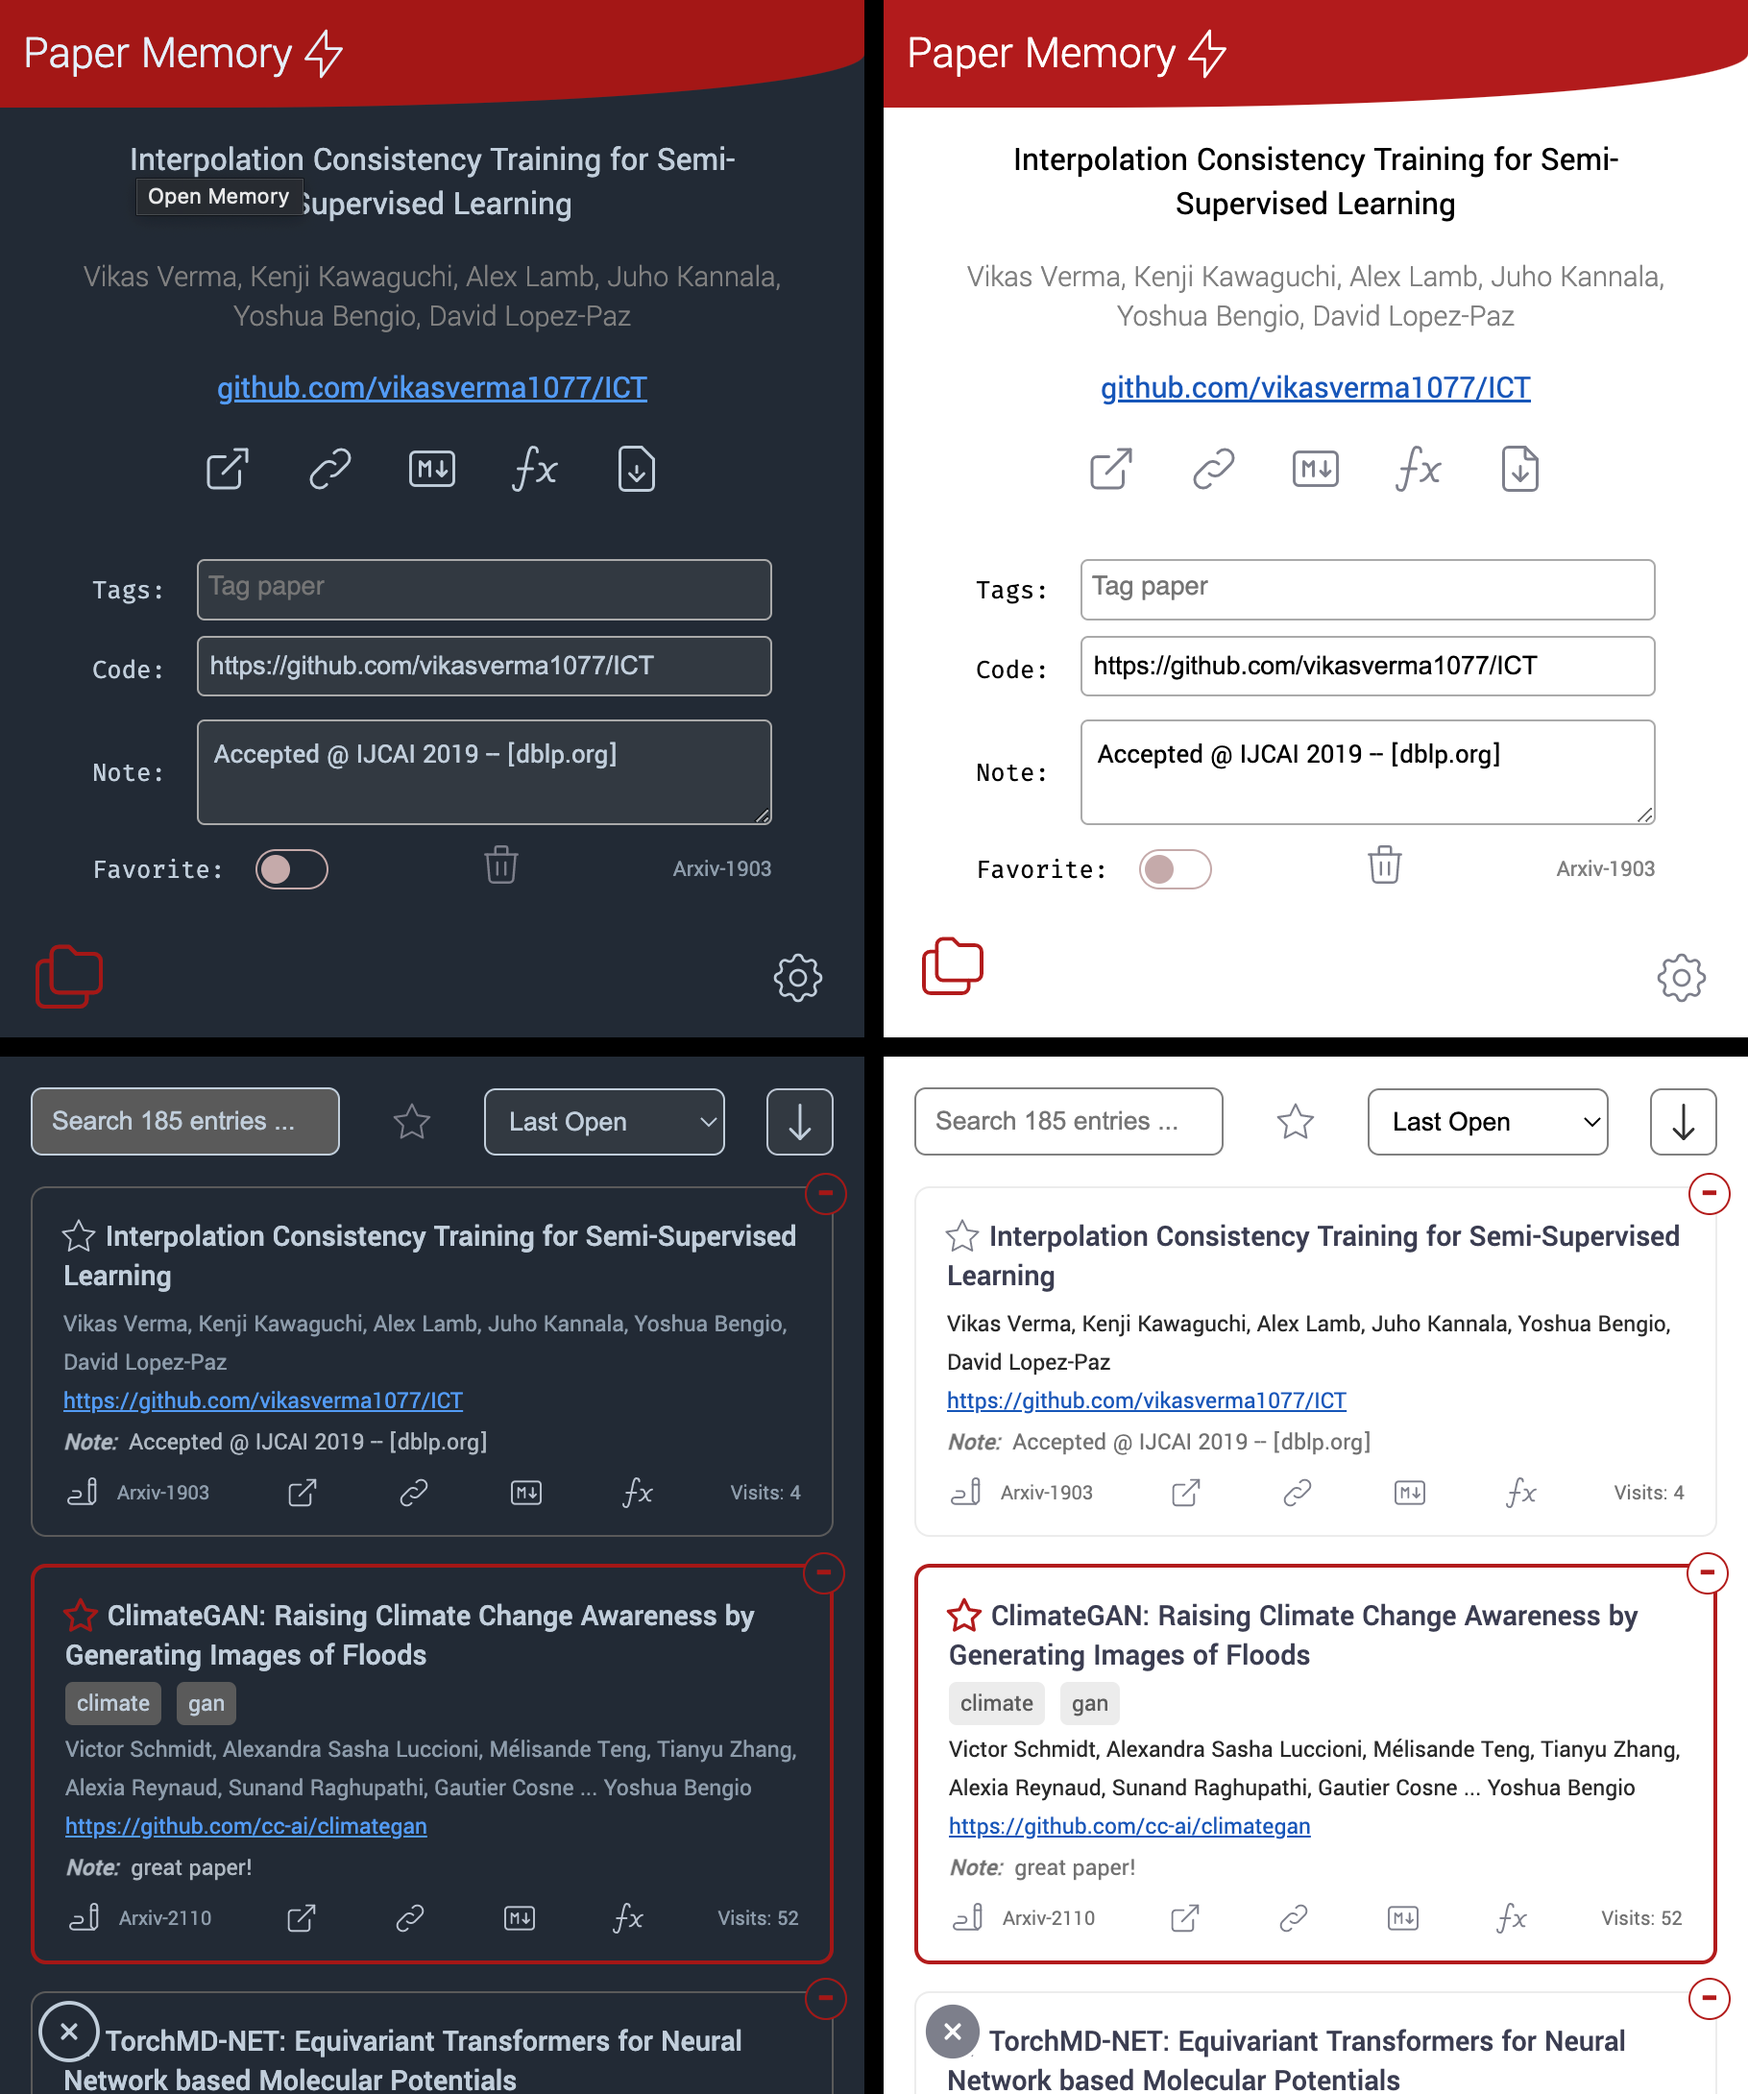
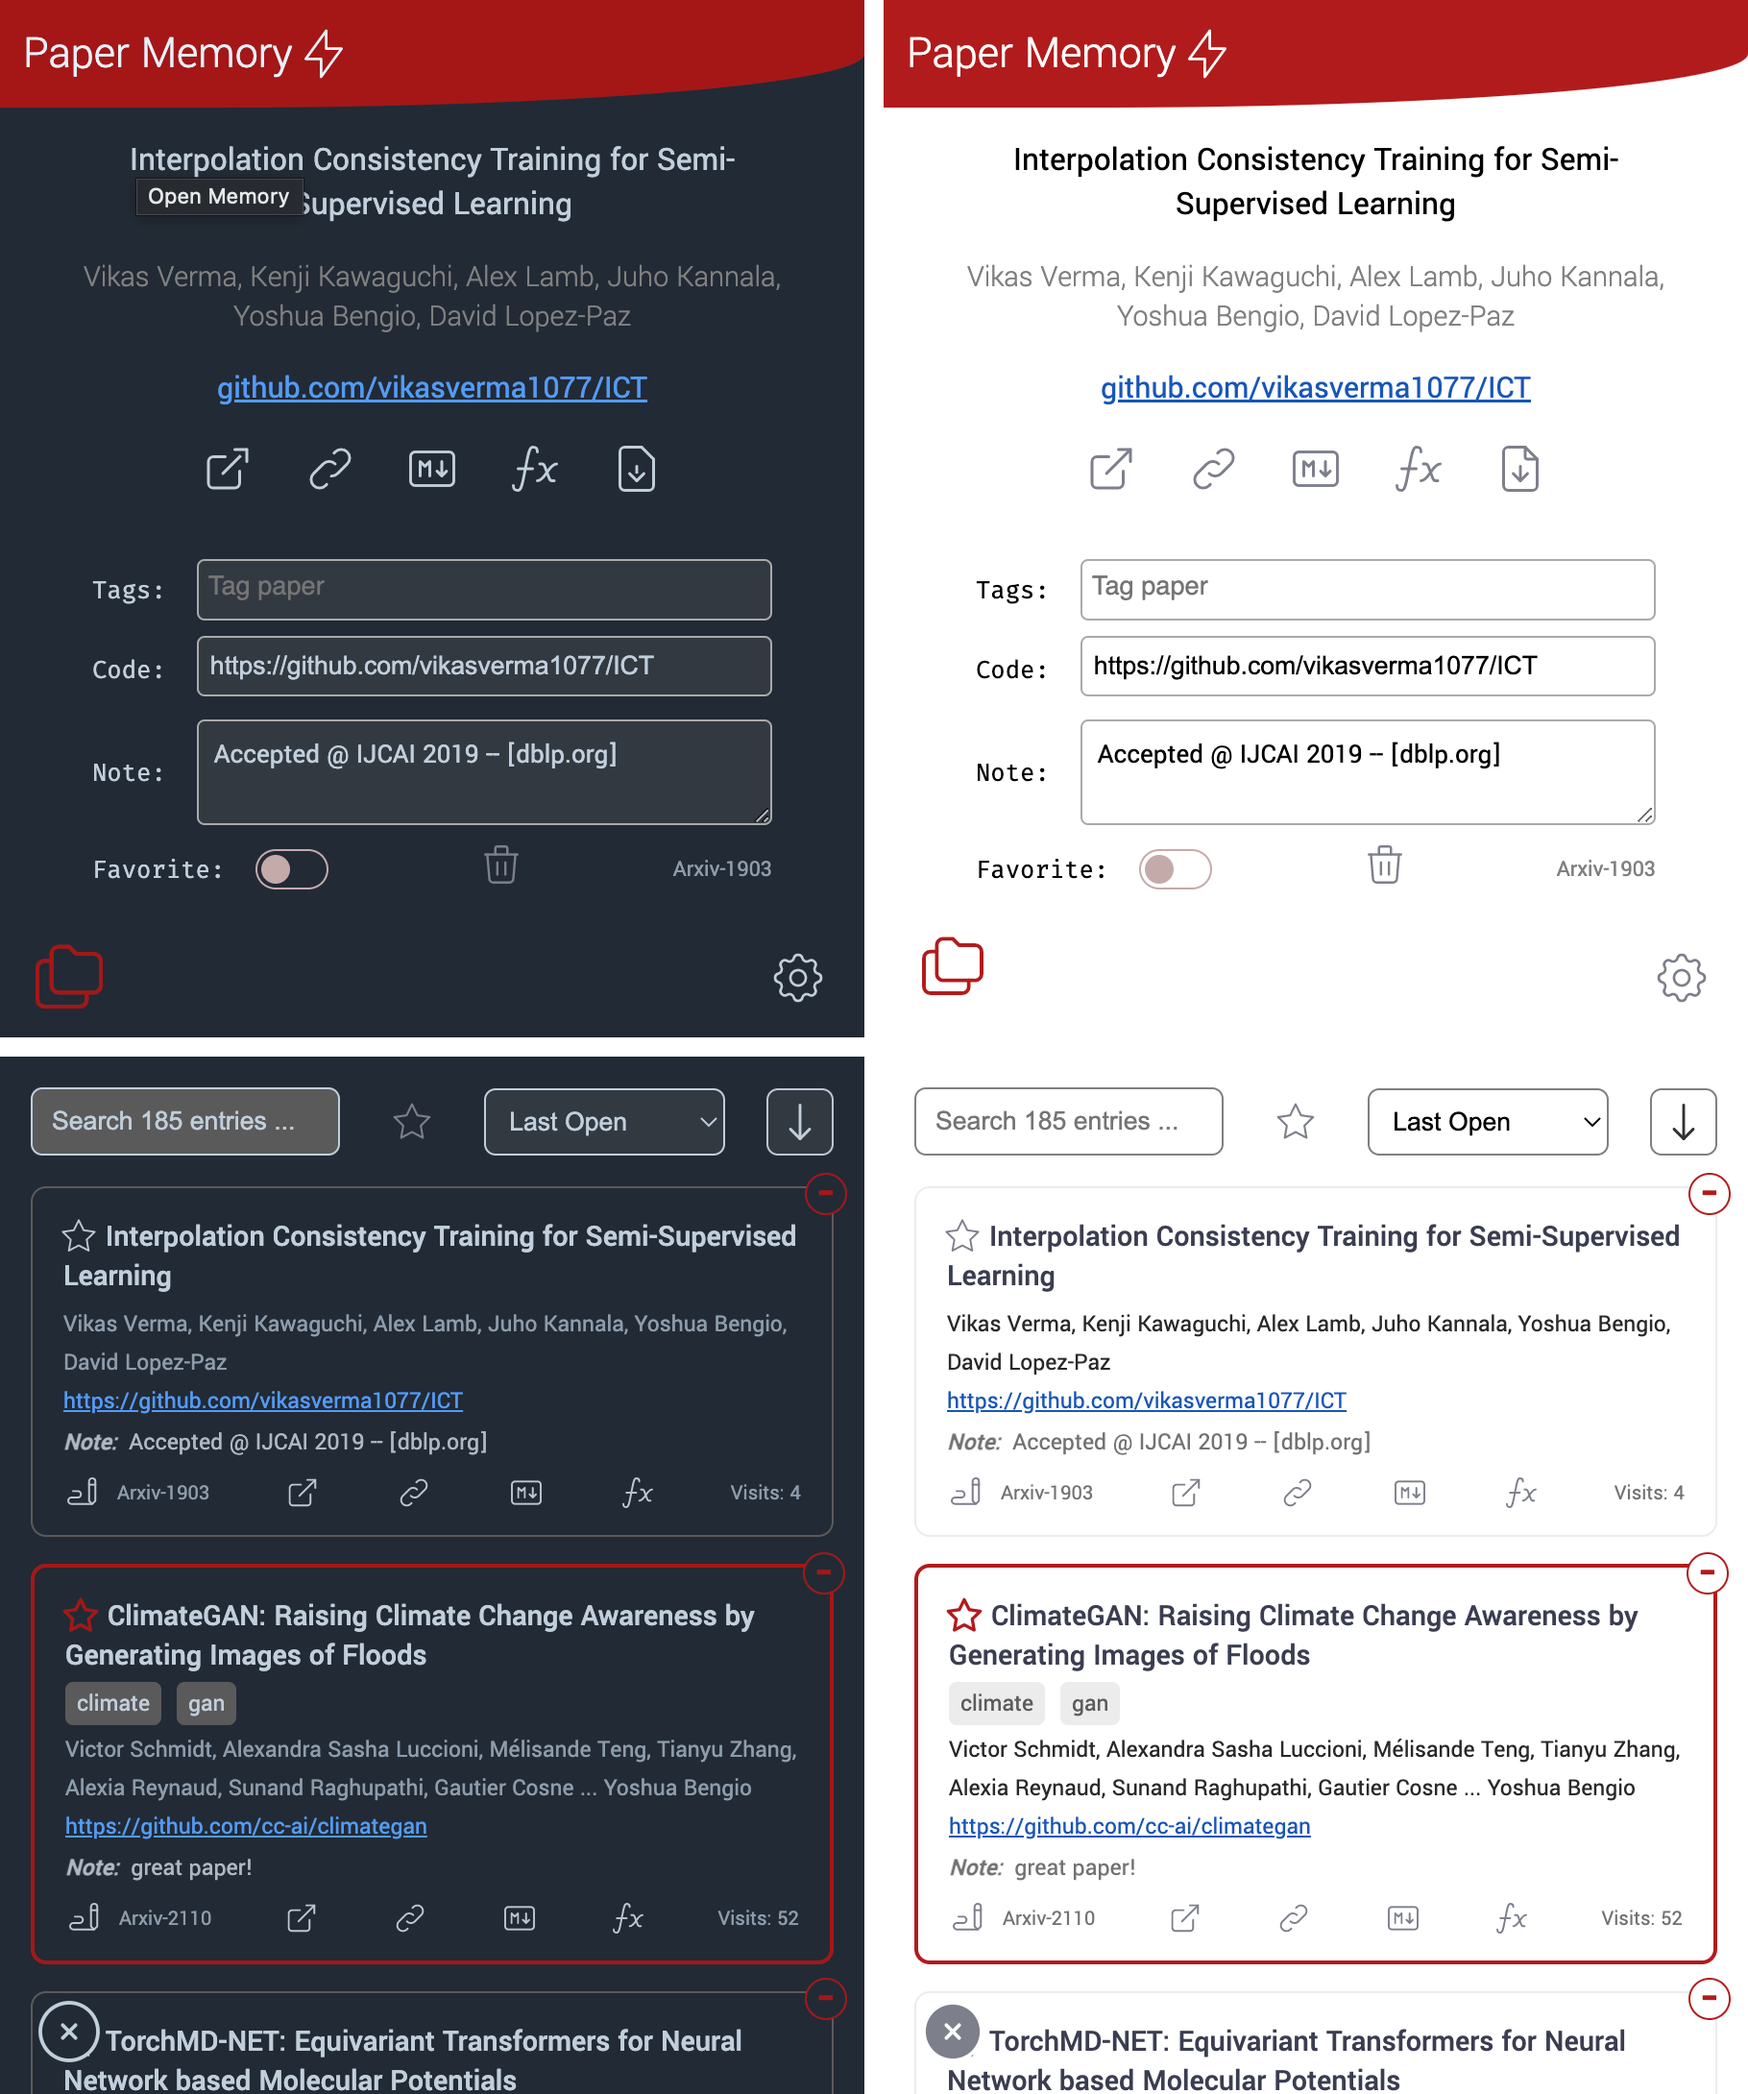
update to transparent background

Changed region(s): [[0.0, 0.0, 1.0, 1.0]]

diff --git a/extra/imgs/concat.py b/extra/imgs/concat.py
@@ -59,9 +59,9 @@ def crop(img, min_h, min_w):
     return img[:, start_w:end_w]
 
 
-def to_rgb(img):
+def to_rgba(img):
     """
-    Convert RGBA image to RGB.
+    Convert RGB image to RGBA.
 
     Args:
         img (np.array): image
@@ -69,8 +69,10 @@ def to_rgb(img):
     Returns:
         np.array: RGBA image
     """
-    if img.shape[-1] == 4:
-        return img[..., :3]
+    if img.shape[-1] == 3:
+        return np.concatenate(
+            [img, np.full((img.shape[:-1], 1), 255, dtype=np.uint8)], axis=-1
+        )
 
     return img
 
@@ -94,19 +96,12 @@ def concat(imgs, axis, margin):
         pad = np.zeros((margin, imgs[0].shape[1], 4), dtype=np.uint8)
     else:
         pad = np.zeros((imgs[0].shape[0], margin, 4), dtype=np.uint8)
-    pad += np.array([0, 0, 0, 255], dtype=np.uint8)[None, None, :]
-
-    # padding will be transparent so images must be RGBA
-    ims = [
-        np.concatenate([i, np.ones((*i.shape[:2], 1), dtype=np.uint8) * 255], axis=-1)
-        for i in imgs
-    ]
 
     padded = []
-    for i in ims[:-1]:
+    for i in imgs[:-1]:
         padded.append(i)
         padded.append(pad)
-    padded.append(ims[-1])
+    padded.append(imgs[-1])
 
     return np.concatenate(padded, axis=axis)
 
@@ -144,7 +139,7 @@ if __name__ == "__main__":
     h, w = common_shape(imgs, axis)
     # Crop images
     print("Cropping images...")
-    imgs = [to_rgb(crop(img, h, w)) for img in imgs]
+    imgs = [to_rgba(crop(img, h, w)) for img in imgs]
     # Concatenate images
     imgs = concat(imgs, axis, margin)
     # Save output image
